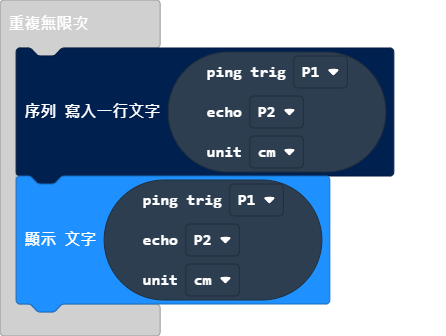
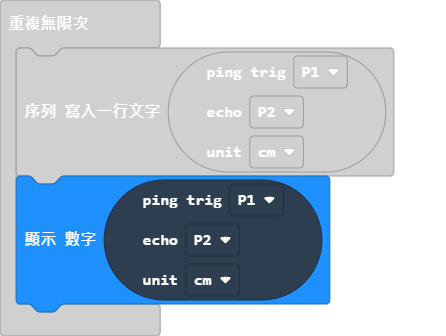
更新 main.blocks, main.ts

diff --git a/main.ts b/main.ts
@@ -4,9 +4,9 @@ basic.forever(function () {
     DigitalPin.P2,
     PingUnit.Centimeters
     )))
-    basic.showString("" + (sonar.ping(
+    basic.showNumber(sonar.ping(
     DigitalPin.P1,
     DigitalPin.P2,
     PingUnit.Centimeters
-    )))
+    ))
 })
